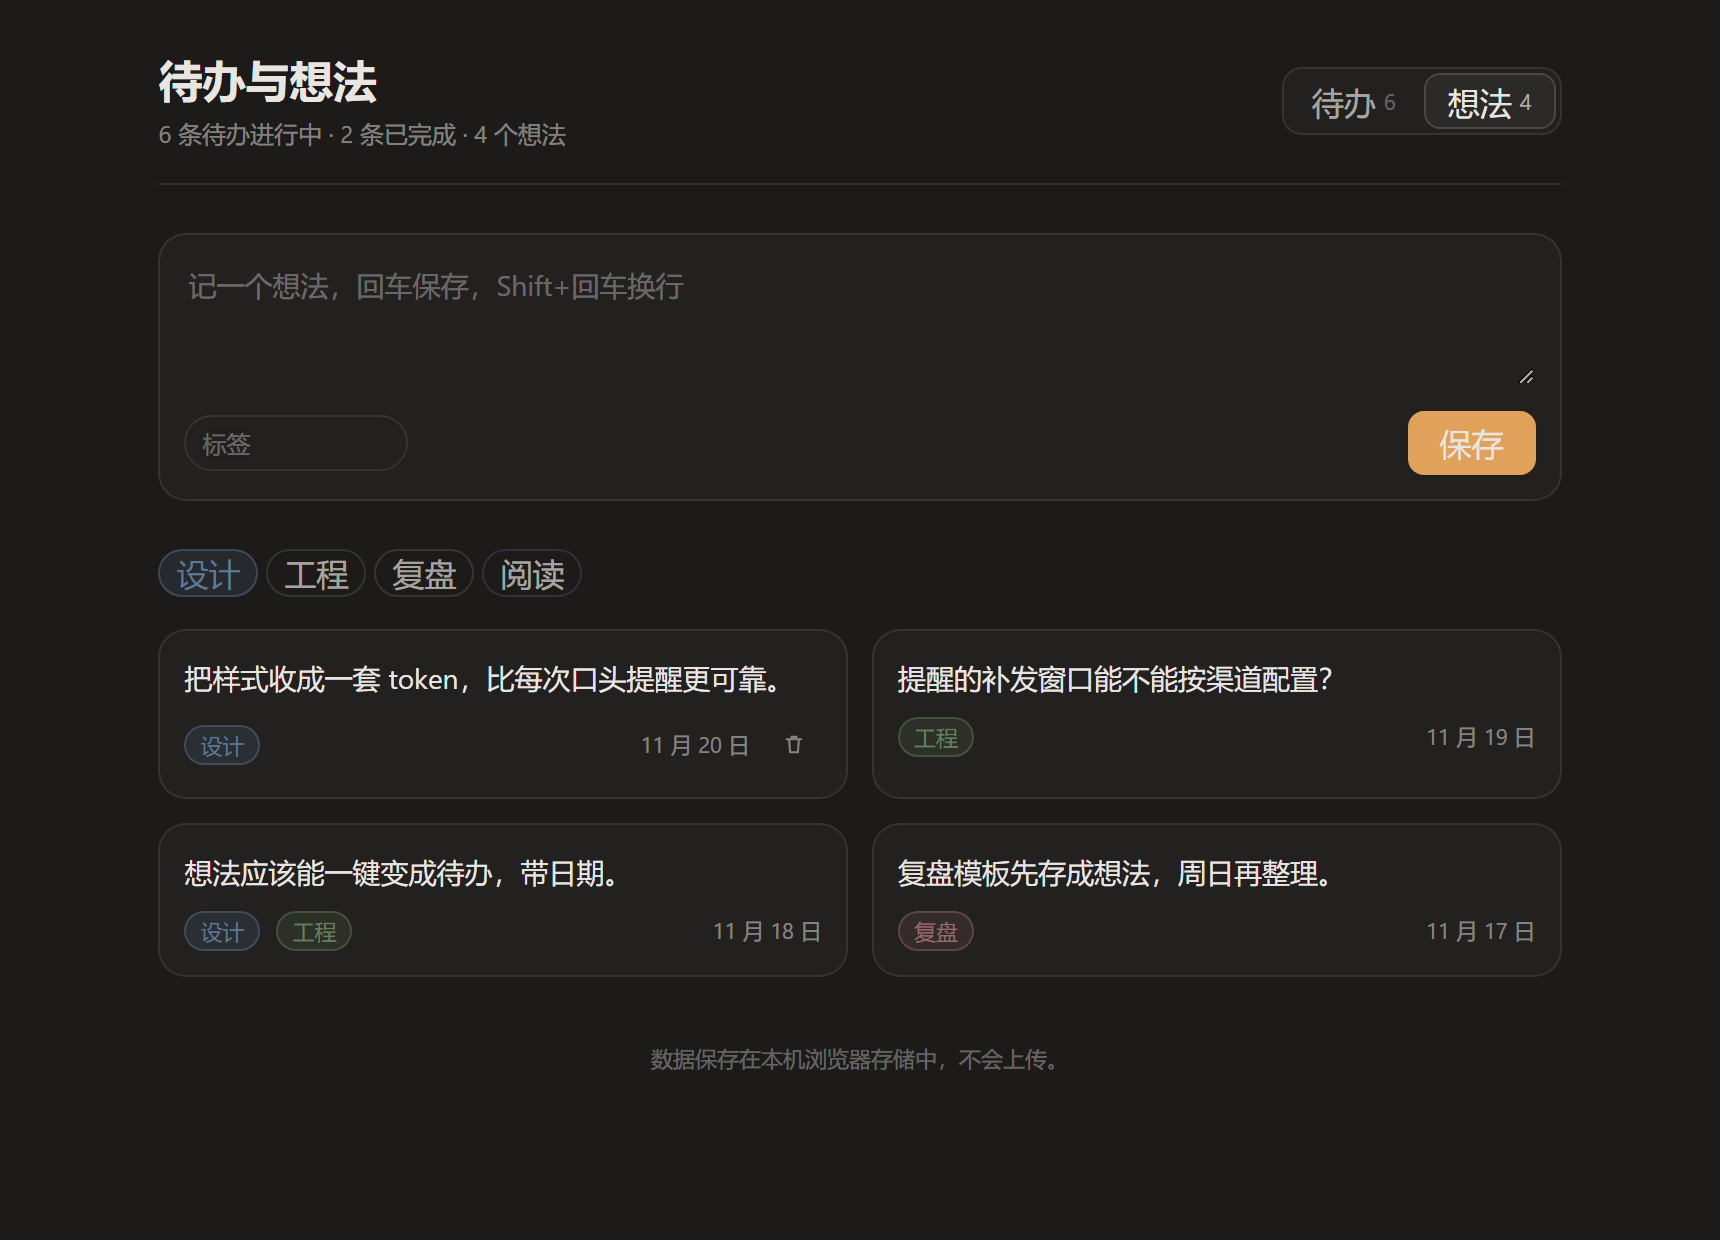
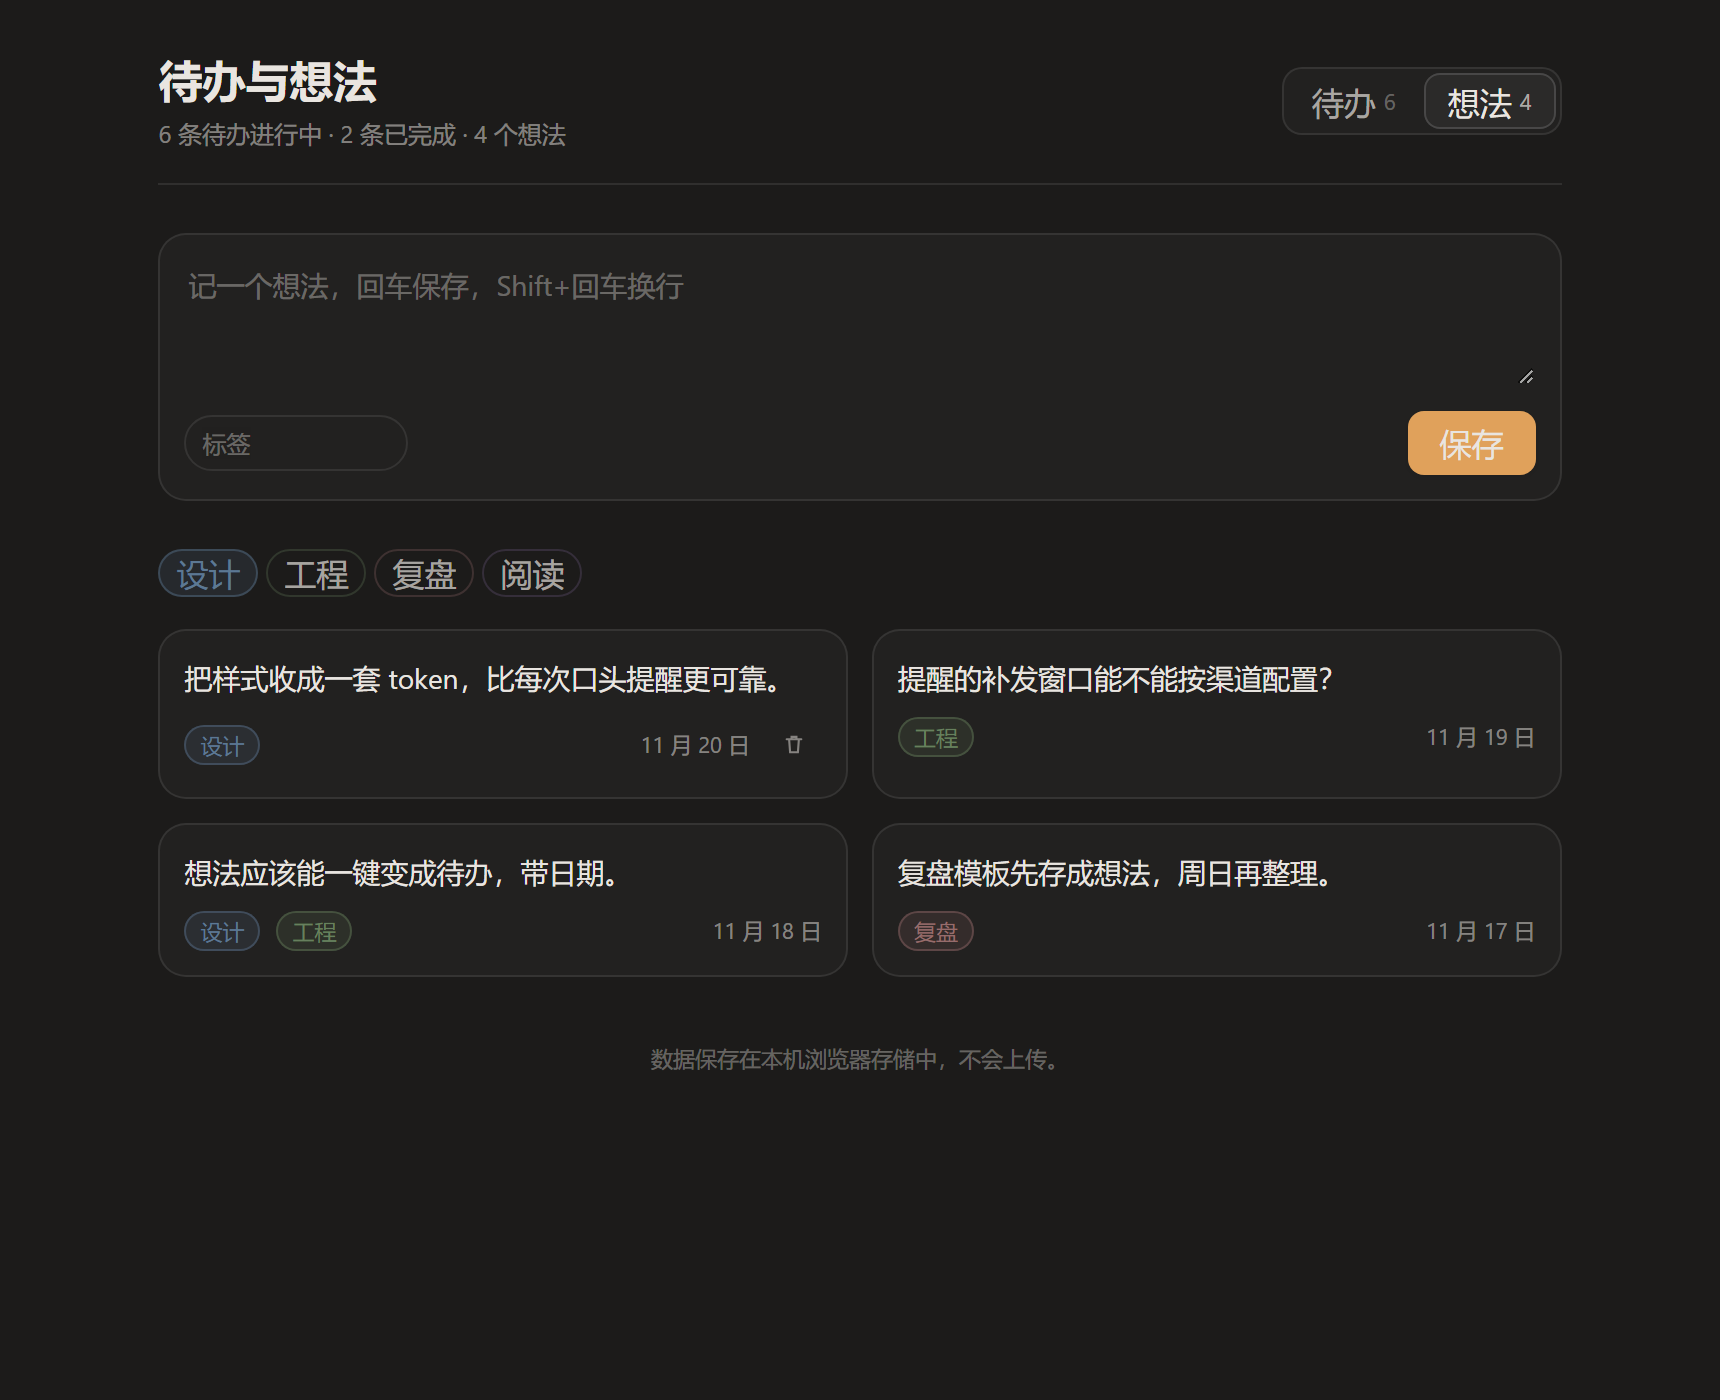
feat: reminders on any todo, capped at its last day (v0.2.2)
- the composer grows a 提醒 toggle plus a clipped date/time cluster, so any
  todo can remind; the firing day is stored as remindDay and never past the
  todo's last day (a range caps it at its end date, no-date todos at today)
- the cluster puts the border on each input instead of wrapping them in a
  shared field, which is what made the old time field sit off-grid
- done todos no longer push, and the settings card only renders on the todo
  tab: the ideas tab has nothing to configure
- push message and import block now state the firing day explicitly
- smoke: reminder assertions cover the range case, clamping and both ends

diff --git a/lib/client.js b/lib/client.js
@@ -244,7 +244,6 @@ window.__ModuleLoader__.load({
 
 .utodo-date,
 .utodo-days,
-.utodo-time,
 .utodo-select,
 .utodo-field-input,
 .utodo-inline-input {
@@ -261,14 +260,17 @@ window.__ModuleLoader__.load({
 }
 .utodo-date:focus,
 .utodo-days:focus,
-.utodo-time:focus,
 .utodo-select:focus,
 .utodo-field-input:focus,
 .utodo-inline-input:focus { border-color: var(--ut-line-strong); }
 .utodo-select { cursor: pointer; }
 .utodo-select option { color: var(--ut-option-fg); background: var(--ut-option-bg); }
 .utodo-days { width: 48px; text-align: center; padding: 0 var(--ut-s1); }
-.utodo-time { width: 104px; }
+/* The reminder cluster: a date plus a time, both the same height as every other
+   field so the composer row cannot shear. */
+.utodo-remind { display: inline-flex; align-items: center; gap: var(--ut-s1); }
+.utodo-remind-date { width: 124px; }
+.utodo-remind-time { width: 88px; }
 .utodo-inline-input { flex: 1 1 auto; min-width: 0; font-size: var(--ut-fs-base); }
 .utodo-dash { opacity: var(--ut-o-4); font-size: var(--ut-fs-sm); }
 .utodo-time-label {
@@ -292,7 +294,8 @@ window.__ModuleLoader__.load({
 }
 .utodo-quick-btn:hover { opacity: 1; background: var(--ut-tint); }
 .utodo-quick-btn:disabled { opacity: var(--ut-o-4); cursor: default; background: transparent; }
-.utodo-quick-btn.is-star {
+.utodo-quick-btn.is-star,
+.utodo-quick-btn.is-remind {
   color: var(--ut-accent-ink);
   border-color: var(--ut-accent-line);
   background: var(--ut-accent-soft);
@@ -945,9 +948,11 @@ window.__ModuleLoader__.load({
         important: raw.important === true,
         start: start,
         end: end,
-        /* A reminder needs one concrete day, so it rides a single-date todo; a
-           range keeps its time-of-day off, and "无日期" has nothing to fire on. */
-        remind: isTime(raw.remind) && start && !end ? raw.remind : null,
+        /* Every todo can remind. The firing day is one concrete date clamped to
+           the todo's last day; a todo without dates reminds on the day the
+           reminder was set. */
+        remind: isTime(raw.remind) ? raw.remind : null,
+        remindDay: isTime(raw.remind) ? clampRemindDay(raw.remindDay, start, end) : null,
         remindSent: typeof raw.remindSent === "string" ? raw.remindSent : null,
         createdAt: typeof raw.createdAt === "number" ? raw.createdAt : Date.now(),
       };
@@ -1018,23 +1023,40 @@ window.__ModuleLoader__.load({
 
     /* ---------------------------------------------------------- reminders */
 
-    /* A reminder fires at a wall-clock time on the todo's single date. Six
-       hours of grace covers a laptop that was asleep or a panel that was
-       closed at the minute itself; anything older is marked quietly instead of
-       pushed late. */
+    /* A reminder fires at a wall-clock time on one concrete day. Six hours of
+       grace covers a laptop that was asleep or a panel that was closed at the
+       minute itself; anything older is marked quietly instead of pushed late. */
     const REMIND_GRACE_MS = 6 * 60 * 60 * 1000;
 
     function isTime(value) {
       return typeof value === "string" && /^([01]\d|2[0-3]):[0-5]\d$/.test(value);
     }
 
-    /* The identity of one firing: the date+time pair, so moving a todo to
-       another day or time arms the reminder again. */
+    /* The last day a todo covers: the end of a range, otherwise its date. */
+    function lastDayOf(start, end) {
+      if (isISO(end)) return end;
+      if (isISO(start)) return start;
+      return null;
+    }
+
+    /* A reminder may be pulled earlier than the todo starts, but never pushed
+       past its last day. A todo with no dates reminds on the day it was set. */
+    function clampRemindDay(day, start, end) {
+      const cap = lastDayOf(start, end);
+      if (!isISO(day)) return cap || todayISO();
+      return cap && day > cap ? cap : day;
+    }
+
+    function remindDay(todo) {
+      if (!todo || !isTime(todo.remind)) return null;
+      return clampRemindDay(todo.remindDay, todo.start, todo.end);
+    }
+
+    /* The identity of one firing: the day+time pair, so moving a todo's dates
+       or its reminder re-arms it. */
     function remindKey(todo) {
-      if (!todo || !isISO(todo.start) || !isTime(todo.remind)) return null;
-      /* a range has no single firing moment, so it never fires */
-      if (isISO(todo.end) && todo.end !== todo.start) return null;
-      return todo.start + "T" + todo.remind;
+      const day = remindDay(todo);
+      return day ? day + "T" + todo.remind : null;
     }
 
     function remindAt(todo) {
@@ -1047,9 +1069,12 @@ window.__ModuleLoader__.load({
     function pushMessage(todo) {
       const title = "待办提醒：" + todo.title;
       const lines = [title];
-      if (isISO(todo.start)) lines.push("日期：" + todo.start + (isTime(todo.remind) ? " " + todo.remind : ""));
+      if (isISO(todo.start)) {
+        const range = isISO(todo.end) && todo.end !== todo.start;
+        lines.push("日期：" + (range ? todo.start + " 至 " + todo.end : todo.start));
+      }
+      if (isTime(todo.remind)) lines.push("提醒：" + remindDay(todo) + " " + todo.remind);
       if (todo.important === true) lines.push("标记：重要");
-      if (isISO(todo.end) && todo.end !== todo.start) lines.push("区间：至 " + todo.end);
       lines.push("来自 DSH 待办与想法");
       return { title: title, content: lines.join("\n") };
     }
@@ -1161,7 +1186,7 @@ window.__ModuleLoader__.load({
               ? "（" + todo.start + " → " + todo.end + "）"
               : "（" + todo.start + "）";
           }
-          const remind = isTime(todo.remind) && isISO(todo.start) ? " 提醒 " + todo.remind : "";
+          const remind = isTime(todo.remind) ? " 提醒 " + remindDay(todo) + " " + todo.remind : "";
           const mark = todo.important === true ? "（重要）" : "";
           lines.push("- [" + (todo.done ? "x" : " ") + "] " + todo.title + when + remind + mark);
         }
@@ -1596,8 +1621,21 @@ window.__ModuleLoader__.load({
       const [date, setDate] = useState({ start: null, end: null });
       const [important, setImportant] = useState(false);
       const [remind, setRemind] = useState("");
+      const [wantRemind, setWantRemind] = useState(false);
+      const [remindDayInput, setRemindDayInput] = useState("");
       const inputRef = useRef(null);
-      const singleDay = isISO(date.start) && !(isISO(date.end) && date.end !== date.start);
+      /* The reminder fires on one day: it may be earlier than the todo starts,
+         never later than its last day. Without dates it fires on the day set. */
+      const lastDay = lastDayOf(date.start, date.end);
+      const capDay = lastDay || todayISO();
+      const remindDayValue =
+        isISO(remindDayInput) && remindDayInput <= capDay ? remindDayInput : capDay;
+
+      function toggleRemind() {
+        const next = !wantRemind;
+        setWantRemind(next);
+        if (next && !isTime(remind)) setRemind("09:00");
+      }
 
       function submit(event) {
         event.preventDefault();
@@ -1612,14 +1650,16 @@ window.__ModuleLoader__.load({
           important: important,
           start: start,
           end: end,
-          /* a range has no single firing moment, so the time is dropped with it */
-          remind: start && !end && isTime(remind) ? remind : null,
+          remind: wantRemind && isTime(remind) ? remind : null,
+          remindDay: wantRemind && isTime(remind) ? remindDayValue : null,
           createdAt: Date.now(),
         });
         setTitle("");
         setDate({ start: null, end: null });
         setImportant(false);
         setRemind("");
+        setWantRemind(false);
+        setRemindDayInput("");
         if (inputRef.current) inputRef.current.focus();
       }
 
@@ -1650,18 +1690,43 @@ window.__ModuleLoader__.load({
             h("span", { style: { marginLeft: "4px" } }, "重要"),
           ),
           h(DateFields, { value: date, onChange: setDate }),
-          singleDay
+          h(
+            "button",
+            {
+              type: "button",
+              className: "utodo-quick-btn" + (wantRemind ? " is-remind" : ""),
+              "aria-pressed": wantRemind,
+              title: wantRemind ? "取消提醒" : "到点后推送到微信",
+              onClick: toggleRemind,
+            },
+            "提醒",
+          ),
+          wantRemind
             ? h(
                 "span",
-                { className: "utodo-time", title: "到点后推送到微信" },
-                h("span", { className: "utodo-time-label" }, "提醒"),
+                { className: "utodo-remind" },
+                h("input", {
+                  type: "date",
+                  className: "utodo-date utodo-remind-date",
+                  value: remindDayValue,
+                  max: capDay,
+                  onChange: event => {
+                    const next = event.target.value;
+                    /* never let the firing day drift past the todo's last day */
+                    setRemindDayInput(isISO(next) && next > capDay ? capDay : next);
+                  },
+                  "aria-label": "提醒日期",
+                }),
                 h("input", {
                   type: "time",
-                  className: "utodo-date",
+                  className: "utodo-date utodo-remind-time",
                   value: remind,
                   onChange: event => setRemind(event.target.value),
                   "aria-label": "提醒时间",
                 }),
+                lastDay
+                  ? h("span", { className: "utodo-time-label" }, "最晚 " + shortDate(lastDay))
+                  : null,
               )
             : null,
           h("span", { className: "utodo-spacer" }),
@@ -1897,8 +1962,19 @@ window.__ModuleLoader__.load({
             "span",
             { className: "utodo-meta" },
             todo.important ? h("span", { className: "utodo-badge is-star" }, "重要") : null,
-            isTime(todo.remind) && isISO(todo.start) && !(isISO(todo.end) && todo.end !== todo.start)
-              ? h("span", { className: "utodo-badge is-remind" }, "提醒 " + todo.remind)
+            isTime(todo.remind)
+              ? h(
+                  "span",
+                  {
+                    className: "utodo-badge is-remind",
+                    title: "提醒 " + remindDay(todo) + " " + todo.remind,
+                  },
+                  "提醒 " + (
+                    remindDay(todo) === lastDayOf(todo.start, todo.end)
+                      ? todo.remind
+                      : shortDate(remindDay(todo)) + " " + todo.remind
+                  ),
+                )
               : null,
             h("span", { className: badgeClass }, schedule.label),
             schedule.note ? h("span", { className: "utodo-meta-dot" }) : null,
@@ -2443,6 +2519,9 @@ window.__ModuleLoader__.load({
           const due = [];
           const marked = new Map();
           for (const todo of data.todos) {
+            /* a done todo stays quiet, and a deleted one has already left the
+               list — neither can still be waiting for its minute */
+            if (todo.done) continue;
             const key = remindKey(todo);
             if (!key || todo.remindSent === key) continue;
             const at = remindAt(todo);
@@ -2620,7 +2699,9 @@ window.__ModuleLoader__.load({
                 selected: selected,
                 onSelect: id => toggleSelected("idea:" + id),
               }),
-          h(PushSettings, { push: data.settings.push, onChange: setPush }),
+          tab === "todos"
+            ? h(PushSettings, { push: data.settings.push, onChange: setPush })
+            : null,
           h("p", { className: "utodo-foot" }, "数据保存在本机浏览器存储中，不会上传。"),
           toast
             ? h(
@@ -2699,6 +2780,9 @@ window.__ModuleLoader__.load({
       TodoList: TodoList,
       IdeasPanel: IdeasPanel,
       isTime: isTime,
+      lastDayOf: lastDayOf,
+      clampRemindDay: clampRemindDay,
+      remindDay: remindDay,
       remindKey: remindKey,
       remindAt: remindAt,
       pushRequest: pushRequest,

diff --git a/README.md b/README.md
@@ -44,8 +44,10 @@
 
 ### 提醒推送
 
-- 单日待办可以额外设一个具体时间（`HH:mm`），到点后推送到微信。
-- 渠道在面板底部 **提醒推送设置** 里填：企业微信群机器人 Webhook、Server酱 SendKey、PushPlus token，或任意接收 `{title, content}` 的自定义 Webhook。
+- 任何待办都能设提醒：点输入框旁的 **提醒** 开一个日期（`YYYY-MM-DD`）加一个时间（`HH:mm`），到点后推送到微信。
+- 提醒日可以提前到待办开始之前，但不能晚于待办的最后一天——区间待办用结束日当上限，输入框会自动夹住。
+- 已完成的待办和已删除的待办都不会推送。
+- 渠道在待办页底部的 **提醒推送设置** 里填（想法页不显示这张卡）：企业微信群机器人 Webhook、Server酱 SendKey、PushPlus token，或任意接收 `{title, content}` 的自定义 Webhook。
 - 先点 **发送测试推送** 确认配置；也可以同时打开系统通知。
 - 只在页面打开时投递。页面关着时到点的提醒，会在下次打开后的 6 小时内补发一次，更早的只做静默标记。
 
@@ -108,6 +110,7 @@ dsh plugin --profile desktop remove dsh-utodo
 | --- | --- |
 | 新建待办 | 在输入框输入标题，回车 |
 | 设置日期 | `单日` 选一天，`区间` 选一段，或用快捷项（今天 / 明天 / 下周一） |
+| 设置提醒 | 点「提醒」开一个日期加时间；日期不能晚于待办最后一天 |
 | 标记重要 | 点行右侧的 ☆（新建时也可在输入框旁切换） |
 | 修改待办 | 双击标题，标题与日期都能就地编辑 |
 | 删除 | 点删除键，需要再点一次确认 |
@@ -117,7 +120,7 @@ dsh plugin --profile desktop remove dsh-utodo
 | 按标签筛选 | 点列表上方的标签条 |
 | 修改想法 | 双击正文 |
 | 导入到会话 | 点右上角「导入会话」勾选条目，再点「导入到当前会话」 |
-| 设置提醒推送 | 底部「提醒推送设置」，填渠道与密钥后发一条测试推送 |
+| 设置提醒推送 | 待办页底部「提醒推送设置」，填渠道与密钥后发一条测试推送（想法页不显示） |
 
 ## 数据与隐私
 
@@ -125,7 +128,7 @@ dsh plugin --profile desktop remove dsh-utodo
 
 ```jsonc
 {
-  "todos": [{ "id": "…", "title": "…", "start": "2026-11-20", "end": null, "remind": "09:30", "remindSent": null, "done": false, "important": true, "createdAt": 0 }],
+  "todos": [{ "id": "…", "title": "…", "start": "2026-11-20", "end": null, "remind": "09:30", "remindDay": "2026-11-20", "remindSent": null, "done": false, "important": true, "createdAt": 0 }],
   "ideas": [{ "id": "…", "text": "…", "tags": ["dsh"], "createdAt": 0 }],
   "settings": {
     "soonDays": 2,

diff --git a/README-EN.md b/README-EN.md
@@ -44,8 +44,10 @@ Notes and todos usually live in a separate app, so they drift away from the work
 
 ### Reminder push
 
-- A single-day todo can carry a wall-clock time (`HH:mm`); when it comes due the plugin pushes to WeChat.
-- Pick the channel in **提醒推送设置** at the bottom of the panel: a WeCom group-bot webhook, a Server酱 SendKey, a PushPlus token, or any custom webhook that accepts `{title, content}`.
+- Any todo can remind: hit **提醒** next to the composer to pick a day (`YYYY-MM-DD`) and a time (`HH:mm`); when it comes due the plugin pushes to WeChat.
+- The reminder day may be earlier than the todo starts, never later than its last day — a range caps it at the end date, and the input clamps to that.
+- Done and deleted todos never push.
+- Pick the channel in **提醒推送设置** at the bottom of the todo tab (the ideas tab hides that card): a WeCom group-bot webhook, a Server酱 SendKey, a PushPlus token, or any custom webhook that accepts `{title, content}`.
 - Hit **发送测试推送** first to confirm the configuration; system notifications can be enabled alongside.
 - Delivery only happens while the page is open. A reminder that came due while the app was closed is sent once on the next open if it is under six hours old; anything older is retired silently.
 
@@ -117,7 +119,7 @@ Open **待办与想法** in the left sidebar.
 | Filter by tag | Click a tag in the bar above the list |
 | Edit an idea | Double-click its text |
 | Import into the conversation | 导入会话 in the header, tick items, then 导入到当前会话 |
-| Set up reminder push | 提醒推送设置 at the bottom: channel, secret, then a test push |
+| Set up reminder push | 提醒推送设置 at the bottom of the todo tab: channel, secret, then a test push |
 
 ## Data & privacy
 
@@ -125,7 +127,7 @@ All state lives in the WebView's `localStorage` under the key `dsh-utodo.v1`. No
 
 ```jsonc
 {
-  "todos": [{ "id": "…", "title": "…", "start": "2026-11-20", "end": null, "remind": "09:30", "remindSent": null, "done": false, "important": true, "createdAt": 0 }],
+  "todos": [{ "id": "…", "title": "…", "start": "2026-11-20", "end": null, "remind": "09:30", "remindDay": "2026-11-20", "remindSent": null, "done": false, "important": true, "createdAt": 0 }],
   "ideas": [{ "id": "…", "text": "…", "tags": ["dsh"], "createdAt": 0 }],
   "settings": {
     "soonDays": 2,

diff --git a/UI-GUIDELINES.md b/UI-GUIDELINES.md
@@ -139,9 +139,13 @@
 ### 4.4 输入
 
 `.utodo-input`（无边框的大输入，占满宽，`--ut-fs-base`）、`.utodo-textarea`（想法输入，最小 60px）、
-`.utodo-date` / `.utodo-time` / `.utodo-days` / `.utodo-select` / `.utodo-field-input` / `.utodo-inline-input`
+`.utodo-date` / `.utodo-days` / `.utodo-select` / `.utodo-field-input` / `.utodo-inline-input`
 共用配方：高 32、`--ut-r-sm`、1px `--ut-line`、底 `--ut-tint`（或无底）、focus 时边线转 `--ut-line-strong`。
-时间框宽 104px；天数框宽 48px。
+天数框宽 48px。
+
+`.utodo-remind`（提醒簇）：`inline-flex` + `gap s1`，里面只放提醒日（`.utodo-remind-date`，124px）和提醒时间（`.utodo-remind-time`，88px）两个输入。
+每个输入自己带边框，绝不再给外层套一个共享输入框（旧版就是这么错位的）；簇本身同高 32。
+提醒开关是 `.utodo-quick-btn.is-remind`，和 `.is-star` 用同一套强调色。
 
 ### 4.5 列表行
 
